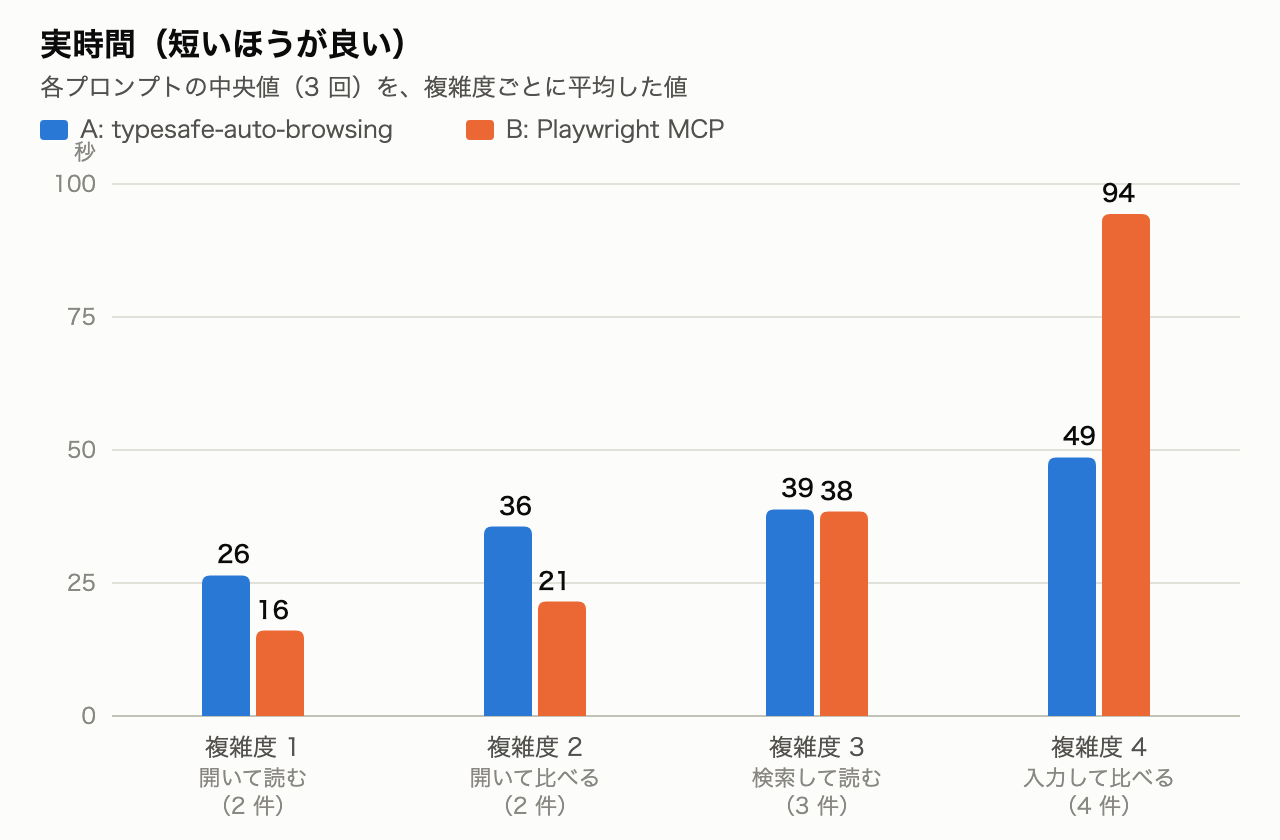
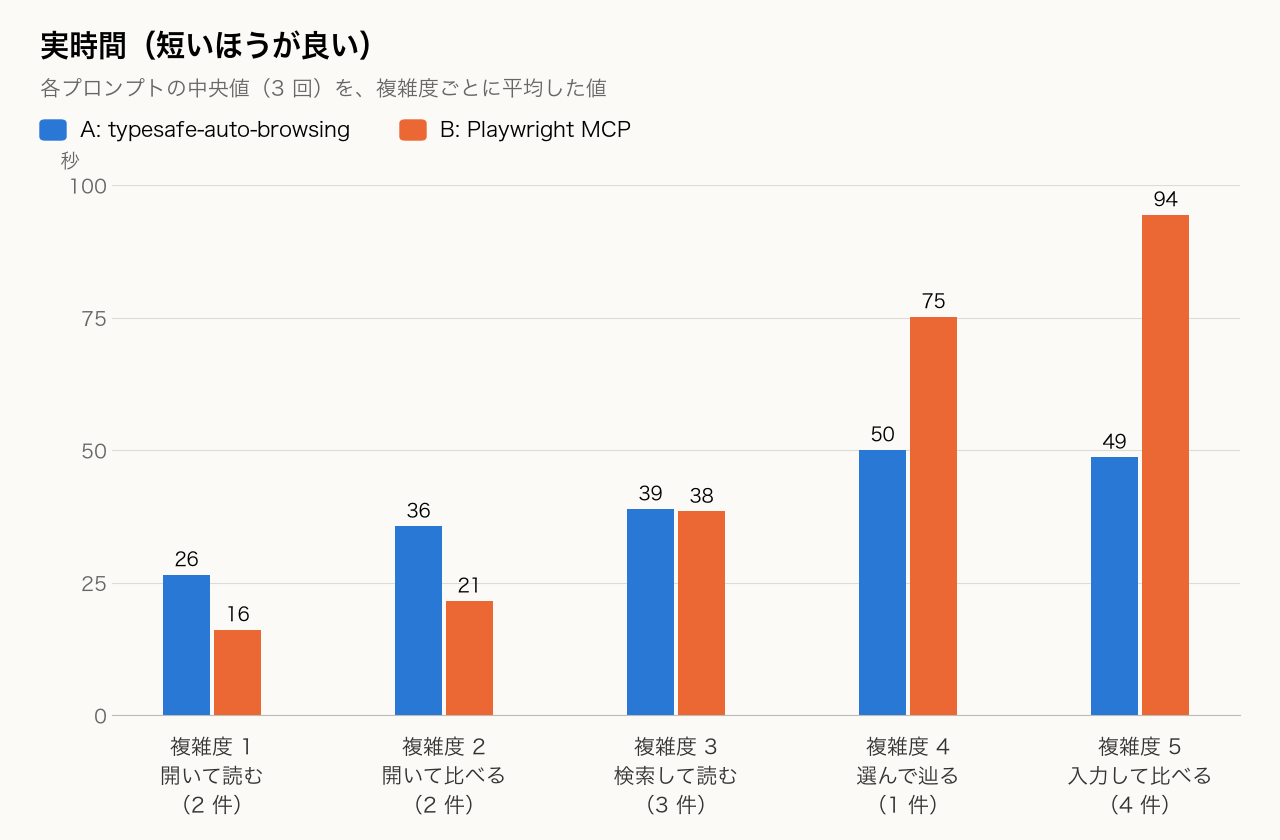
Add complexity 4 (TVer, select and follow) to the complexity analysis, with regenerated charts (#11)
Measure prompts/tver-meisaku-drama-detail.txt (A: Claude Code + typesafe-auto-browsing,
B: Claude Code + Playwright MCP, 3 runs each, haiku) with the CLI reinstalled from the
current tree, and add it as complexity 4; the old complexity 4 (input and compare) becomes 5.
A: 50.0 s / $0.138 / 7 turns, B: 75.1 s / $0.202 / 19 turns (B varies 12-44 turns).

An earlier run the same day used a stale installed CLI (uv tool install copies the code),
so it is not used; the doc records why. Answers are not judged for this prompt because the
ranking moves over time.

Add scripts/plot_complexity.py to draw the four charts from the bench records, so they can
be regenerated.

diff --git a/scripts/plot_complexity.py b/scripts/plot_complexity.py
@@ -1,0 +1,120 @@
+"""docs/cost-comparison-by-complexity.md のグラフ 4 枚を、bench_all.sh の記録から描く。
+使い方: uv run --no-project --with matplotlib python scripts/plot_complexity.py OUT_DIR [OUT_DIR ...]
+OUT_DIR は、複数の記録をまとめて渡せる（プロンプトごとに、成功した回の中央値を使う）。日本語のフォントは macOS の Hiragino Sans。"""
+import json, statistics as st, sys
+from collections import defaultdict
+from pathlib import Path
+
+import matplotlib
+matplotlib.use("Agg")
+import matplotlib.pyplot as plt
+from matplotlib.font_manager import FontProperties
+
+# 複雑度（docs/cost-comparison-by-complexity.md と同じ分類）
+LEVELS = {
+    1: ("開いて読む", ["pypi-numpy-license", "pypi-requests-version"]),
+    2: ("開いて比べる", ["hn-most-comments", "hn-most-points"]),
+    3: ("検索して読む", ["wikipedia-eiffel-year", "wikipedia-tokyo-tower-designer", "wikipedia-tokyo-tower-height"]),
+    4: ("選んで辿る", ["tver-meisaku-drama-detail"]),
+    5: ("入力して比べる", ["amazon-cheapest-usbc", "yahoo-transit-cheapest-fare", "yahoo-transit-search-only", "yahoo-transit-shortest"]),
+}
+BG, INK, MUTED, GRID = "#fbfaf7", "#111111", "#666666", "#dcdcd6"
+BLUE, LIGHT_BLUE, ORANGE, DOT = "#2a78d6", "#8ab8f0", "#eb6835", "#8a8a80"
+REG, BOLD = FontProperties(family="Hiragino Sans W3"), FontProperties(family="Hiragino Sans W6")
+
+# --- データ: (プロンプト, 方式) ごとの、成功した回の中央値 ---
+rows = defaultdict(list)
+for out in map(Path, sys.argv[1:]):
+    for f in sorted(out.glob("*/*/meta.json")):
+        m = json.loads(f.read_text())
+        if m["ok"]:
+            rows[(m["prompt"], m["method"])].append(m)
+def med(p, m, k):
+    r = list({x["n"]: x for x in reversed(rows[(p, m)])}.values())  # 1 つの枠に成功が複数あれば、最初の 1 件だけ
+    assert len({x["n"] for x in r}) == 3, (p, m, "3 回そろっていない")
+    return st.median(x[k] for x in r)
+def mean(level, m, k):
+    return st.mean(med(p, m, k) for p in LEVELS[level][1])
+
+def base(title, sub, size):
+    fig = plt.figure(figsize=size, dpi=100, facecolor=BG)
+    fig.text(40 / (size[0] * 100), 1 - 45 / (size[1] * 100), title, fontproperties=BOLD, fontsize=21, va="center")
+    fig.text(40 / (size[0] * 100), 1 - 88 / (size[1] * 100), sub, fontproperties=REG, fontsize=15, color=MUTED, va="center")
+    return fig
+
+def legend(fig, items, size, y=130):
+    x = 40
+    for color, label in items:
+        fig.patches.append(matplotlib.patches.FancyBboxPatch(
+            (x / (size[0] * 100), 1 - (y + 10) / (size[1] * 100)), 26 / (size[0] * 100), 20 / (size[1] * 100),
+            boxstyle="round,pad=0,rounding_size=0.004", transform=fig.transFigure, color=color))
+        t = fig.text((x + 40) / (size[0] * 100), 1 - y / (size[1] * 100), label, fontproperties=REG, fontsize=15, va="center")
+        fig.canvas.draw()
+        x += 40 + t.get_window_extent().width + 50
+
+def bars(fname, title, sub, key, unit, fmt, ymax, step, stack=None):
+    size = (12.8, 8.4)
+    fig = base(title, sub, size)
+    ax = fig.add_axes([112 / 1280, 125 / 840, 1128 / 1280, 530 / 840], facecolor=BG)
+    w = 0.2
+    for lv in LEVELS:
+        a, b = mean(lv, "A", key), mean(lv, "B", key)
+        ax.bar(lv - w * 0.55, a, w, color=BLUE, zorder=3)
+        if stack:  # A のうち TypeSafe の分を、上に薄い色で
+            ax.bar(lv - w * 0.55, mean(lv, "A", stack), w, bottom=a - mean(lv, "A", stack), color=LIGHT_BLUE, zorder=4)
+        ax.bar(lv + w * 0.55, b, w, color=ORANGE, zorder=3)
+        for x, v in ((lv - w * 0.55, a), (lv + w * 0.55, b)):
+            ax.text(x, v + ymax * 0.012, fmt(v), ha="center", va="bottom", fontproperties=REG, fontsize=13.5, zorder=5)
+    ax.set_xticks(list(LEVELS))
+    ax.set_xticklabels([f"複雑度 {lv}\n{n}\n（{len(ps)} 件）" for lv, (n, ps) in LEVELS.items()], fontproperties=REG, fontsize=15, color="#333333", linespacing=1.4)
+    ax.tick_params(axis="x", length=0, pad=12)
+    ax.set_ylim(0, ymax); ax.set_yticks([i * step for i in range(int(ymax / step) + 1)])
+    ax.set_yticklabels([fmt(i * step) if key != "real_s" else f"{i * step:g}" for i in range(int(ymax / step) + 1)], fontproperties=REG, fontsize=14, color=MUTED)
+    ax.tick_params(axis="y", length=0)
+    ax.grid(axis="y", color=GRID, zorder=0); ax.set_axisbelow(True)
+    for s in ("top", "right", "left"): ax.spines[s].set_visible(False)
+    ax.spines["bottom"].set_color("#bdbdb5")
+    fig.text(70 / 1280, 1 - 168 / 840, unit, fontproperties=REG, fontsize=14, color=MUTED, ha="center")
+    items = [(BLUE, "A: typesafe-auto-browsing"), (ORANGE, "B: Playwright MCP")]
+    if stack: items.append((LIGHT_BLUE, "A のうち TypeSafe の分"))
+    legend(fig, items, size)
+    fig.savefig(fname, facecolor=BG); plt.close(fig)
+
+img = Path(__file__).resolve().parent.parent / "docs" / "images"
+sub = "各プロンプトの中央値（3 回）を、複雑度ごとに平均した値"
+bars(img / "complexity-1-time.png", "実時間（短いほうが良い）", sub, "real_s", "秒", lambda v: f"{v:.0f}", 100, 25)
+bars(img / "complexity-2-cost.png", "総コスト（安いほうが良い）", sub + "。A は Claude Code + TypeSafe", "total_cost_usd", "$", lambda v: f"{v:.3f}" if v else "0.00", 0.25, 0.05, stack="typesafe_cost_usd")
+bars(img / "complexity-3-turns.png", "ターン数（Claude Code の往復の回数）", sub, "turns", "回", lambda v: f"{v:.1f}" if v % 10 else f"{v:.0f}", 30, 10)
+
+# --- B÷A（プロンプトごと） ---
+W, H = 1520, 1052
+n_rows = sum(1 + len(ps) for _, ps in LEVELS.values())
+fig = base("複雑度別・プロンプトごとの B ÷ A", "1 より右は A のほうが有利（B が高い）、左は B のほうが有利", (W / 100, H / 100))
+ax = fig.add_axes([0, 0, 1, 1], facecolor="none"); ax.set_xlim(0, W); ax.set_ylim(H, 0); ax.axis("off")  # 画素座標（左上が原点）
+def text(x, y, t, fp=REG, size=16, color=INK, ha="left"):
+    ax.text(x, y, t, fontproperties=fp, fontsize=size, color=color, ha=ha, va="center")
+ax.add_patch(matplotlib.patches.Circle((52, 129), 8, color=DOT)); text(82, 129, "プロンプト 1 件", size=15, color=MUTED)
+ax.plot([320, 348], [129, 129], color=INK, lw=3); text(360, 129, "複雑度ごとの平均同士の比", size=15, color=MUTED)
+top, bottom = 262, 960
+pitch = (bottom - top) / n_rows
+for x0, key, head in [(500, "total_cost_usd", "コストの比（B ÷ A）"), (1000, "real_s", "時間の比（B ÷ A）")]:
+    text(x0 + 120, 203, head, BOLD, 16, ha="center")
+    for g in range(4):  # 目盛り: 0×〜3×
+        ax.plot([x0 + g * 120] * 2, [top - 20, bottom], color=GRID if g != 1 else "#bdbdb5", lw=1.5, zorder=0)
+        text(x0 + g * 120, 985, f"{g}×", size=15, color=MUTED, ha="center")
+    y = top
+    for lv, (name, ps) in LEVELS.items():
+        ratio = mean(lv, "B", key) / mean(lv, "A", key)
+        if x0 == 500:
+            text(40, y + pitch / 2, f"複雑度 {lv}　{name}", BOLD, 17)
+        text(x0 + ratio * 120 + 8, y + pitch / 2, f"{ratio:.2f}×", BOLD, 16)
+        y += pitch
+        y0 = y
+        for p in ps:
+            ax.add_patch(matplotlib.patches.Circle((x0 + med(p, "B", key) / med(p, "A", key) * 120, y + pitch / 2), 8, color=DOT, zorder=3))
+            if x0 == 500:
+                text(68, y + pitch / 2, p, size=16, color="#444444")
+            y += pitch
+        ax.plot([x0 + ratio * 120] * 2, [y0 + pitch * 0.1, y - pitch * 0.1], color=INK, lw=3.5, zorder=4, solid_capstyle="butt")
+fig.savefig(img / "complexity-4-ratio.png", facecolor=BG); plt.close(fig)
+print("ok:", *sorted(img.glob("complexity-*.png")), sep="\n  ")

diff --git a/docs/cost-comparison-by-complexity.md b/docs/cost-comparison-by-complexity.md
@@ -1,6 +1,6 @@
 # 複雑度別の速度とコスト: Claude Code + typesafe-auto-browsing（A）と Claude Code + Playwright MCP（B）
 
-`prompts/` の 11 個の目的を、操作の種類で複雑度 1〜4 に分け、[cost-comparison-claude-code.md](cost-comparison-claude-code.md) の計測（2026-09-20、`claude -p`、haiku、headed、各 3 回）を、複雑度ごとにまとめ直した記録です。
+`prompts/` の 12 個の目的を、操作の種類で複雑度 1〜5 に分け、複雑度ごとにまとめた記録です。複雑度 1〜3 と 5（11 個）は、[cost-comparison-claude-code.md](cost-comparison-claude-code.md) の計測（2026-09-20、`claude -p`、haiku、headed、各 3 回）を、まとめ直したものです。複雑度 4（1 個）は、同じ方法で 2026-09-21 に、別に計測しました（下の「複雑度 4 の計測」）。
 
 - **A: Claude Code + typesafe-auto-browsing**（スキルを使い、CLI を Bash で呼ぶ。ブラウザの操作は TypeSafe が決める）
 - **B: Claude Code + Playwright MCP**（Claude Code が Playwright のツールを直接呼ぶ）
@@ -9,14 +9,15 @@
 
 ## 複雑度とプロンプト
 
-複雑度は、目的を達成するために必要な操作の種類で分けました。**分類は、計測のあとに付けたものです**（計測の前に決めたものではありません）。
+複雑度は、目的を達成するために必要な操作の種類で分けました。**分類は、計測のあとに付けたものです**（計測の前に決めたものではありません）。複雑度 4 と 5 の順序も、計測のあとに入れ替えました。
 
 | 複雑度 | 内容 | プロンプト数 |
 |---|---|---|
 | 1 開いて読む | URL を開くだけ。ページから 1 つの事実を読む | 2 |
 | 2 開いて比べる | URL を開くだけ。ページに並ぶ多数の項目を比べて、1 つを選ぶ | 2 |
 | 3 検索して読む | 検索語を 1 つ入力して記事を開き、事実を読む | 3 |
-| 4 入力して比べる | 2 つ以上の入力（出発地と到着地、検索語と並べ替え）をして、結果を比べる。`yahoo-transit-search-only` だけは、比べずに検索まで | 4 |
+| 4 選んで辿る | 一覧の中の順位で 1 つを選び、番組ページ、最新エピソード、「詳細を見る」と辿って、2 つの値（番組内容と出演者）を読む | 1 |
+| 5 入力して比べる | 2 つ以上の入力（出発地と到着地、検索語と並べ替え）をして、結果を比べる。`yahoo-transit-search-only` だけは、比べずに検索まで | 4 |
 
 各複雑度のプロンプト（`prompts/<名前>.txt` の目的文。計測では、先頭に、A は「typesafe-auto-browsing をつかって、」、B は「playwright-mcp をつかって、」を付けました）:
 
@@ -36,7 +37,11 @@
 - `wikipedia-tokyo-tower-designer`: https://ja.wikipedia.org/ で 東京タワー を検索し、記事の設計者を教えて
 - `wikipedia-tokyo-tower-height`: https://ja.wikipedia.org/ で 東京タワー を検索して、高さを教えて
 
-**複雑度 4 入力して比べる**
+**複雑度 4 選んで辿る**
+
+- `tver-meisaku-drama-detail`: https://tver.jp/ をひらく、再生数上位の名作ドラマの9位の番組を選び、最新エピソードの「詳細を見る」を開いて、番組内容と出演者をおしえて
+
+**複雑度 5 入力して比べる**
 
 - `amazon-cheapest-usbc`: https://www.amazon.co.jp/ で一番やすいusb-cケーブルをさがして
 - `yahoo-transit-cheapest-fare`: https://transit.yahoo.co.jp/ で東京から大阪までを検索して、一番料金が安い経路の料金を教えて
@@ -50,10 +55,12 @@
 | 1 開いて読む | 2 | 26.4 / 16.1 | 0.61 | 0.060 / 0.043 | 0.72 | 6.5 / 4.0 |
 | 2 開いて比べる | 2 | 35.6 / 21.5 | 0.60 | 0.080 / 0.050 | 0.62 | 7.0 / 4.5 |
 | 3 検索して読む | 3 | 38.9 / 38.4 | 0.99 | 0.080 / 0.091 | 1.14 | 8.0 / 13.7 |
-| 4 入力して比べる | 4 | 48.6 / 94.4 | 1.94 | 0.107 / 0.232 | 2.17 | 7.8 / 26.2 |
+| 4 選んで辿る | 1 | 50.0 / 75.1 | 1.50 | 0.138 / 0.202 | 1.46 | 7.0 / 19.0 |
+| 5 入力して比べる | 4 | 48.6 / 94.4 | 1.94 | 0.107 / 0.232 | 2.17 | 7.8 / 26.2 |
 
 - B÷A は、1 より大きいと A が有利（B のほうが遅い、高い）、1 より小さいと B が有利です。
 - ターンは、Claude Code の往復の回数です（A は、スキルを読む、前提を確認する、CLI を実行する、スナップショットを読む、という手順を含みます）。
+- 複雑度 4 は、1 件だけで、別の日（2026-09-21）に、修正後の CLI で計測しました。ほかの複雑度と同じ表に並べていますが、条件は同じではありません（[複雑度 4 の計測](#複雑度-4-の計測)）。
 
 ![実時間](images/complexity-1-time.png)
 
@@ -62,6 +69,12 @@
 ![ターン数](images/complexity-3-turns.png)
 
 ![プロンプトごとの B÷A](images/complexity-4-ratio.png)
+
+（グラフは、`scripts/plot_complexity.py` で描いています。複雑度 1〜3 と 5 は `run-20260920-230727`、複雑度 4 は `run-20260921-level5-rerun` の記録です。）
+
+```sh
+uv run --no-project --with matplotlib python scripts/plot_complexity.py bench-results/run-20260920-230727 bench-results/run-20260921-level5-rerun
+```
 
 ## 複雑度ごとの分析
 
@@ -101,7 +114,18 @@
 - **ここが、A と B の損益分岐です。** 検索と記事の読み取りが加わると、B の往復が増え、A の固定の手順と釣り合う、と考えられます。
 - 答えは、6 回すべて同じでした（東京タワー 333 m、設計者、エッフェル塔 1889 年）。
 
-### 複雑度 4 入力して比べる: A が速く、安い
+### 複雑度 4 選んで辿る: A が速く、安い
+
+| プロンプト | 時間 A / B（秒） | 総コスト A / B（$） | B÷A（コスト） | ターン A / B |
+|---|---|---|---|---|
+| tver-meisaku-drama-detail | 50.0 / 75.1 | 0.138 / 0.202 | 1.46 | 7 / 19 |
+
+- **A のほうが、時間で 1.5 倍速く（50 秒対 75 秒）、コストで 1.46 倍安い**（$0.138 対 $0.202）。B は 19 ターン、A は 7 ターンです。
+- **B のばらつきが大きい。** 3 回の幅は、A が 48.8〜50.9 秒・$0.092〜0.147・6〜7 ターン、B が 50.7〜182.6 秒・$0.141〜0.437・12〜44 ターンです。B の 3 回目は 50.7 秒・$0.141 で、A とほぼ並びました。中央値の差は、B の遅い回に引っ張られています。
+- A の TypeSafe の分は $0.012（コストの 9%、38〜41 リクエスト）です。Claude Code の分は $0.126 で、複雑度 5 の $0.084 より高い（理由は調べていません）。
+- **答えは、回によって別の番組でした。** 「再生数上位の名作ドラマ」の順位は時間で動くので、9 位の番組が回ごとに変わります。A も B も、3 回のうち 2 回は「キスは捜査のあとで」、1 回は「彼女はキレイだった」を返しました。どれが正しい 9 位かは、判定していません。「彼女はキレイだった」を返した 2 回（A-1、B-1）は、エピソードが #9（A-1）と #1（B-1）で、プロンプトの期待（#10 最終回）とは違いました。
+
+### 複雑度 5 入力して比べる: A が速く、安い
 
 | プロンプト | 時間 A / B（秒） | 総コスト A / B（$） | B÷A（コスト） | ターン A / B |
 |---|---|---|---|---|
@@ -118,12 +142,20 @@
   - `yahoo-transit-shortest` は、B の 1 回だけが「20 時間 41 分」と答えました（ほかの 5 回は 3 時間 25 分）。
   - `yahoo-transit-cheapest-fare` は、A も B も、回によって答えが分かれました（4,553 円、8,980 円、9,020 円）。
 
+## 複雑度 4 の計測
+
+複雑度 4 は、ほかの複雑度とは、次の点が違います。
+
+- **日と CLI が違います。** 複雑度 1〜3 と 5 は 2026-09-20 に、複雑度 4 は 2026-09-21 に計測しました。複雑度 4 は、修正 `1c10ec4`（同じ呼び出しが 3 回続いたとき、実行を終えずに、その操作を飛ばす。「達成」の判断では、目的の情報がページにあるかだけを聞く）の後の CLI です。この修正には、複数の値を求める目的で、誤って成功と判断することがある、という既知の限界があります（コミットのメッセージに、TVer の実行 5 回のうち 2 回、とあります）。
+- **修正の前の計測は、使っていません。** 修正の前に一度（2026-09-21 12:22）計測したときは、A の 1 回目の試行が 3 回中 2 回、失敗しました（`the browser was closed`、`stuck: repeated browser_navigate_back`）。このとき使った CLI は、修正の前のコピーでした（`uv tool install` は、`--reinstall` するまで、入れた時点のコードのままです）。CLI を入れ直して、`bench-results/run-20260921-level5-rerun/`（`.gitignore` 済み）に、同じ条件でやり直した値が、上の表です（ディレクトリ名の `level5` は、入れ替え前の番号です）。やり直しでは、A も B も、6 回すべて 1 回目で成功しました（リトライなし）。失敗が減ったのが修正のためかは、各 3 回では言えません。
+- **1 件だけです。** 複雑度 4 は 1 プロンプト × 各 3 回なので、ほかの複雑度のような、プロンプト間の平均はありません。
+
 ## 全体の分析
 
-- **損益分岐は、複雑度 2 と 3 の間にあります。** 複雑度 1〜2 は B が速く、安い。複雑度 3 は並び、複雑度 4 は A が速く、安い。
-- **B は、複雑度に応じて急に増えます。** 複雑度 1 から 4 で、時間が 5.9 倍（16 → 94 秒）、コストが 5.4 倍（$0.043 → 0.232）、ターンが 6.6 倍（4 → 26）になります。画面を操作するたびに往復が増えるためと考えられます。
-- **A は、緩やかにしか増えません。** 時間が 1.8 倍（26 → 49 秒）、コストが 1.8 倍（$0.060 → 0.107）で、ターンは 6.5 → 7.8 とほぼ一定です。ブラウザの操作を TypeSafe に任せ、Claude Code 側の手順が変わらないためと考えられます。
-- **A のコストの中身が、複雑度で変わります。** Claude Code の分は $0.060、0.080、0.067、0.084 と、ほぼ一定です。TypeSafe の分は $0.0006、0.0008、0.013、0.023 と増え、割合は 1%、1%、16%、22% です。複雑度が上がる分の費用は、単価の安い TypeSafe が負担しています。
+- **損益分岐は、複雑度 2 と 3 の間にあります。** 複雑度 1〜2 は B が速く、安い。複雑度 3 は並び、複雑度 4〜5 は A が速く、安い。
+- **B は、複雑度に応じて急に増えます。** 複雑度 1 から 5 で、時間が 5.9 倍（16 → 94 秒）、コストが 5.4 倍（$0.043 → 0.232）、ターンが 6.6 倍（4 → 26）になります。中央値は、時間・コスト・ターンとも、複雑度の順に単調に増えています（複雑度 4 は、B の 3 回の幅が広い）。画面を操作するたびに往復が増えるためと考えられます。
+- **A は、緩やかにしか増えません。** 複雑度 1 から 5 で、時間が 1.8 倍（26 → 49 秒）、コストが 1.8 倍（$0.060 → 0.107）で、ターンは 6.5 → 7.8 とほぼ一定です（複雑度 4 は 50 秒・$0.138・7 ターン）。ブラウザの操作を TypeSafe に任せ、Claude Code 側の手順が変わらないためと考えられます。
+- **A のコストの中身が、複雑度で変わります。** Claude Code の分は $0.060、0.080、0.067、0.126、0.084 と、複雑度 4 を除いて、ほぼ一定です。TypeSafe の分は $0.0006、0.0008、0.013、0.012、0.023 と、複雑度 5 まで増え、割合は 1%、1%、16%、9%、22% です。複雑度が上がる分の費用は、単価の安い TypeSafe が負担しています。
 - **A には、固定費があります。** どんなに単純な目的でも、約 $0.06、25 秒かかります。これが、複雑度 1〜2 で A が割高になる理由です。
 - **使い分けの目安（大まかな指針）:**
   - ページを開いて読む、比べるだけなら、B が向きます。
@@ -131,8 +163,9 @@
 
 ## 限界
 
-- **分類は、計測のあとに付けました。** 各複雑度は 2〜4 件で、複雑度 3 と 4 のプロンプトごとの差も大きく、個々の結論は、目的に依存します。
+- **分類と、複雑度 4・5 の順序は、計測のあとに付けました。** B の増え方が単調に見えるのは、この並べ方の影響を含みます。各複雑度は 1〜4 件で、複雑度 3 と 5 のプロンプトごとの差も大きく、個々の結論は、目的に依存します。複雑度 5 の 4 件のうち 3 件は、同じサイト（Yahoo 乗換案内）です。複雑度 4 は 1 件だけです。
 - **各 3 回の中央値です。** 回ごとのばらつきは大きく、Amazon のコストは、A が $0.13〜0.22、B が $0.19〜0.22 と、回によって違いました。
-- **答えの正しさは、自動では確かめていません。** 複雑度 4 では、A と B で答えが違う回がありました。
-- **モデルは haiku だけ、実行は 1 日（約 50 分）だけです。** サイトの混み具合や、Claude Code のキャッシュの状態で、結果は変わります。
+- **答えの正しさは、自動では確かめていません。** 複雑度 5 では、A と B で答えが違う回がありました。複雑度 4 は、順位が時間で動くので、正しい答えを固定できず、判定していません。
+- **複雑度 4 は、ほかの複雑度と、日も CLI のコードも違います**（上の「複雑度 4 の計測」）。表の同じ列に並んでいても、厳密な比較ではありません。
+- **モデルは haiku だけ、実行は 1 日（約 50 分）だけです**（複雑度 4 は、別の日の約 8 分）。サイトの混み具合や、Claude Code のキャッシュの状態で、結果は変わります。
 - そのほかの条件（コマンド、失敗の扱い、記録の場所）は、[cost-comparison-claude-code.md](cost-comparison-claude-code.md) にあります。
